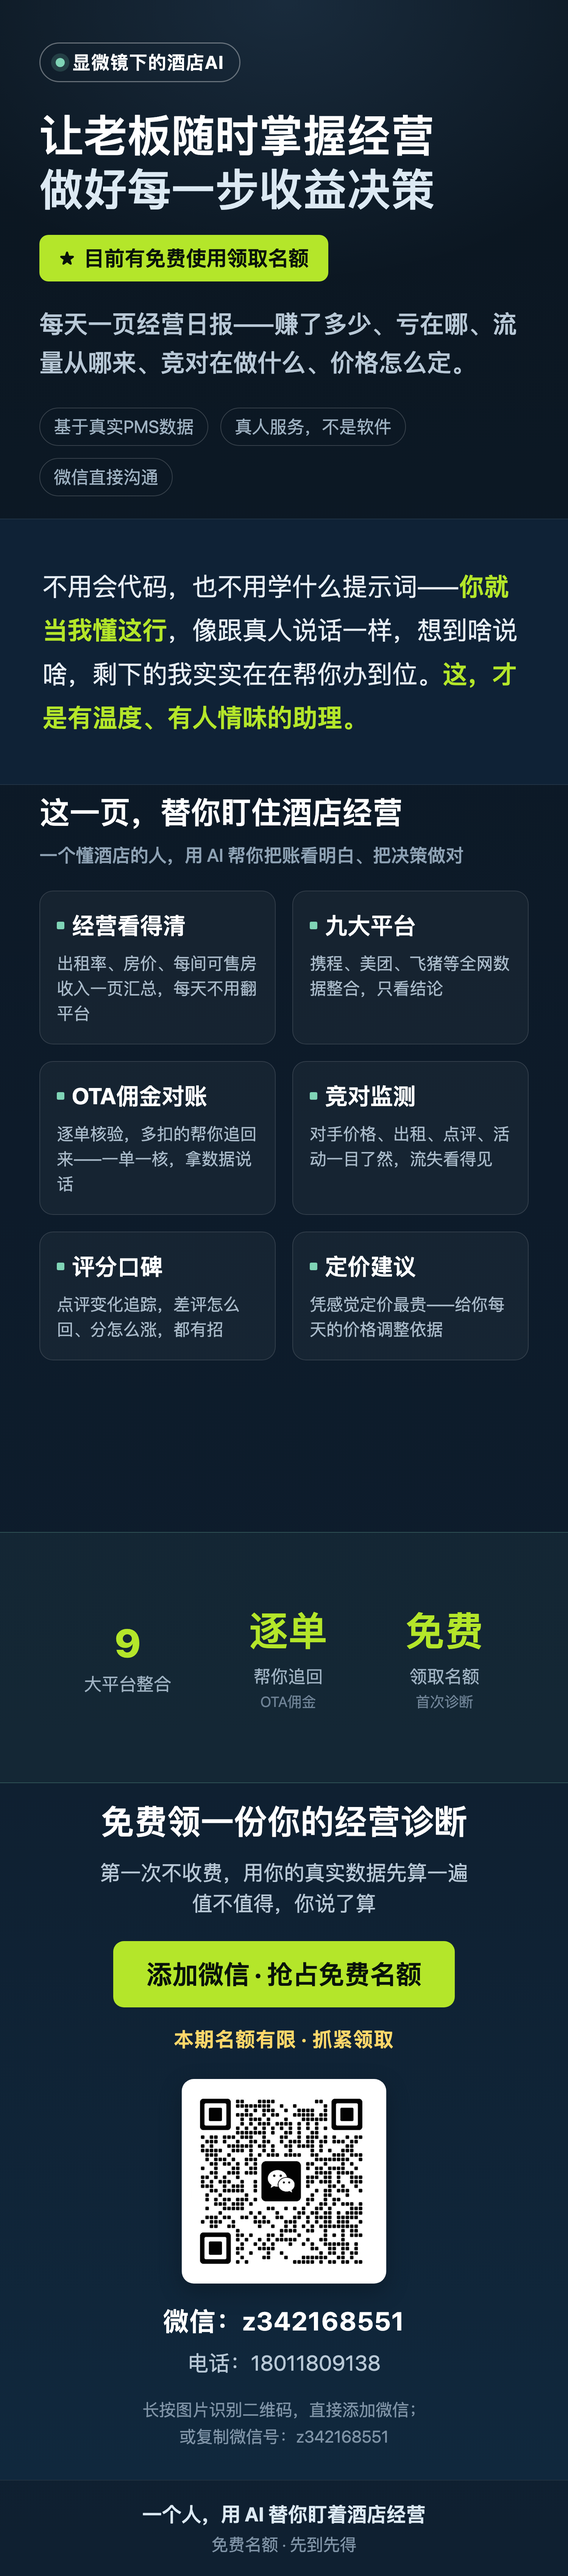
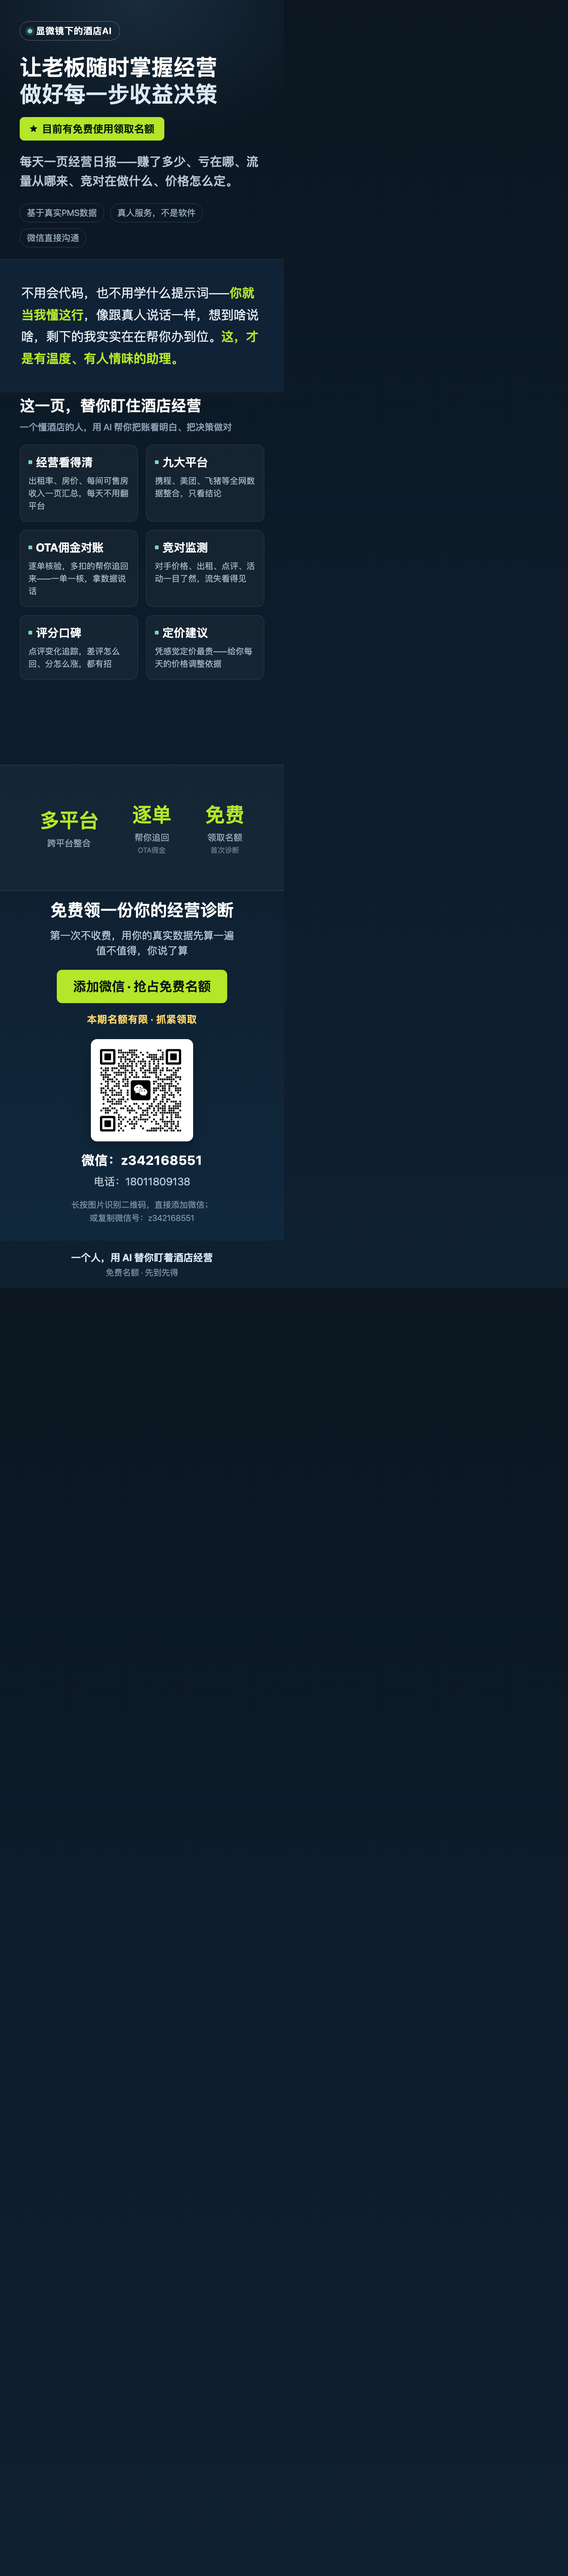
文案调整：清除"9大平台"表述，改为国内主流+海外归类（llms与长图）
- llms.txt：平台数据分析/差评修复/覆盖平台章节 移除"9大"数字，改为国内主流+海外归类
- wechat-poster.html/.png：长图"九大平台"改"全平台"，"9大平台整合"改"多平台 跨平台整合"并重新渲染

diff --git a/wechat-poster.html b/wechat-poster.html
@@ -87,7 +87,7 @@
     <div class="shead">这一页，替你盯住酒店经营<small>一个懂酒店的人，用 AI 帮你把账看明白、把决策做对</small></div>
     <div class="grid">
       <div class="card"><div class="t">经营看得清</div><p>出租率、房价、每间可售房收入一页汇总，每天不用翻平台</p></div>
-      <div class="card"><div class="t">九大平台</div><p>携程、美团、飞猪等全网数据整合，只看结论</p></div>
+      <div class="card"><div class="t">全平台</div><p>携程、美团、飞猪等国内主流 + Booking、Agoda 海外，只看结论</p></div>
       <div class="card"><div class="t">OTA佣金对账</div><p>逐单核验，多扣的帮你追回来——一单一核，拿数据说话</p></div>
       <div class="card"><div class="t">竞对监测</div><p>对手价格、出租、点评、活动一目了然，流失看得见</p></div>
       <div class="card"><div class="t">评分口碑</div><p>点评变化追踪，差评怎么回、分怎么涨，都有招</p></div>
@@ -96,7 +96,7 @@
   </div>
 
   <div class="stats">
-    <div class="stat"><div class="v">9</div><div class="l">大平台整合</div></div>
+    <div class="stat"><div class="v">多平台</div><div class="l">跨平台整合</div></div>
     <div class="stat"><div class="v">逐单</div><div class="l">帮你追回</div><div class="s">OTA佣金</div></div>
     <div class="stat"><div class="v">免费</div><div class="l">领取名额</div><div class="s">首次诊断</div></div>
   </div>
